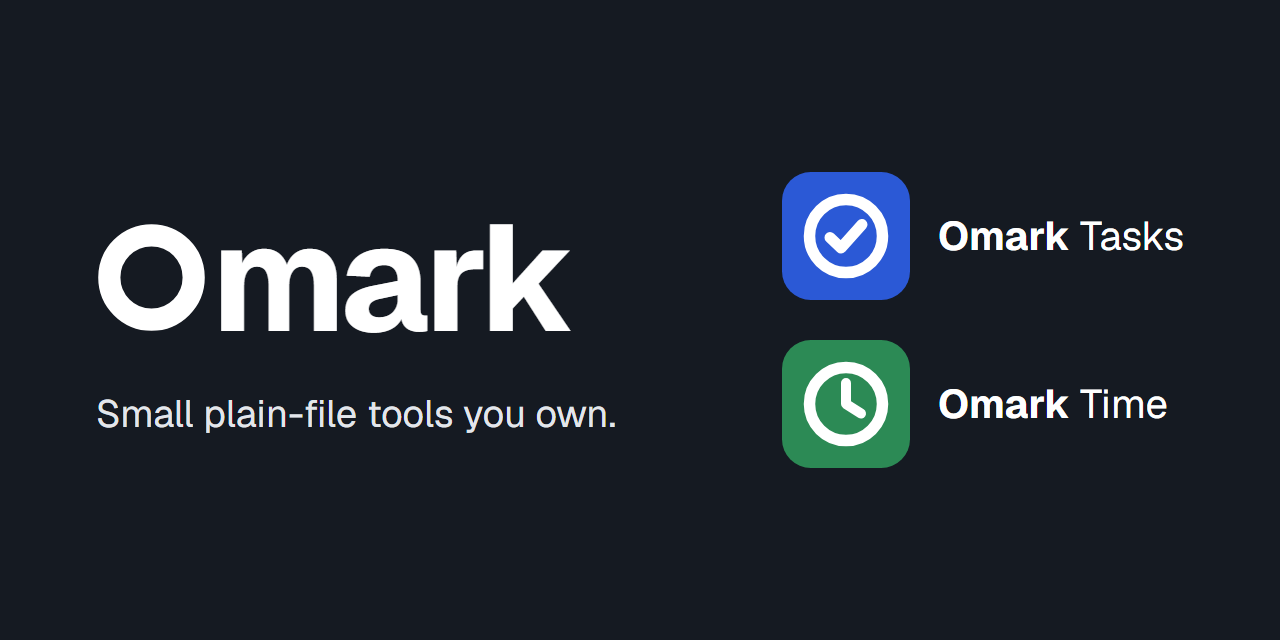
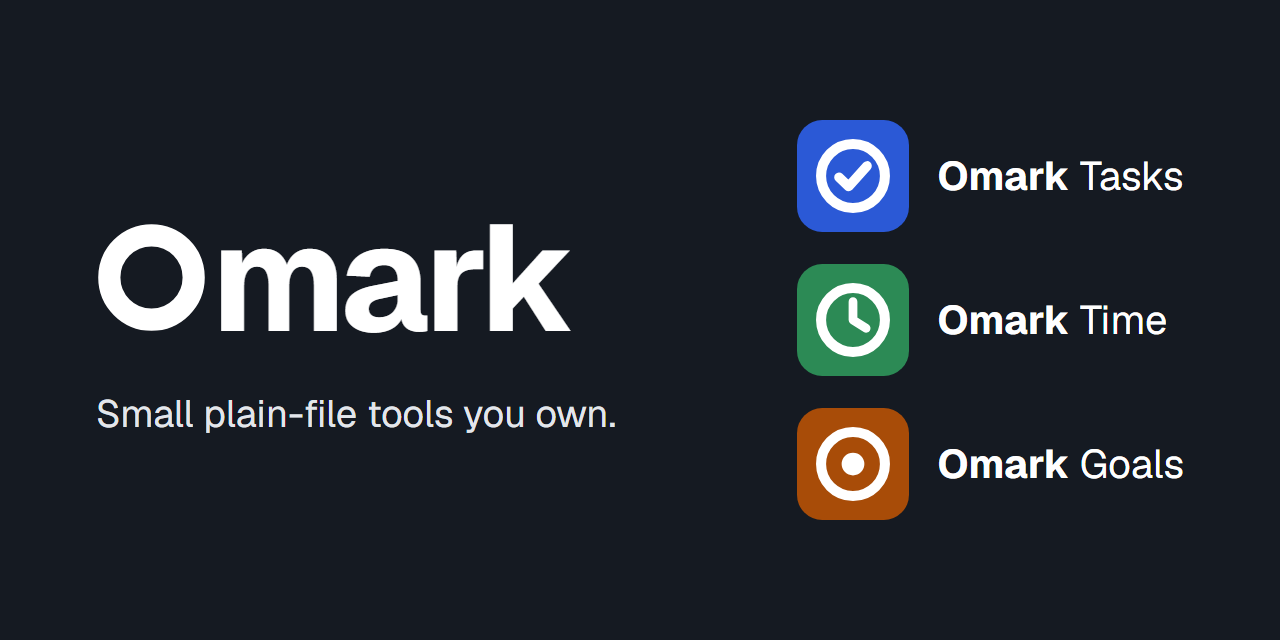
Show Omark Goals in the social preview (#126)

Changed region(s): [[0.5938, 0.1875, 0.9375, 0.8125]]

diff --git a/brand/src/outputs.test.ts b/brand/src/outputs.test.ts
@@ -1,6 +1,7 @@
 import { existsSync, readFileSync } from 'node:fs';
 import { describe, expect, it } from 'vitest';
-import { OUTPUTS, sourceHash } from './outputs.ts';
+import { OUTPUTS, socialHtml, sourceHash } from './outputs.ts';
+import { iconSvg } from './family.ts';
 
 const root = new URL('../../', import.meta.url);
 const read = (p: string) => readFileSync(new URL(p, root));
@@ -47,6 +48,14 @@ describe('outputs', () => {
   it('the landing page logo and app icons are drawn here too', () => {
     const paths = svgs.map((o) => o.path);
     for (const app of ['omark', 'tasks', 'time']) expect(paths).toContain(`apps/site/public/img/icon-${app}.svg`);
+  });
+
+  it('the social preview shows the three apps, each with its icon (#126)', () => {
+    const html = socialHtml();
+    for (const [app, name] of [['tasks', 'Tasks'], ['time', 'Time'], ['goals', 'Goals']] as const) {
+      expect(html).toContain(`<b>Omark</b> ${name}`);
+      expect(html).toContain(Buffer.from(iconSvg(app, { shape: 'rounded' })).toString('base64'));
+    }
   });
 
   it.each(svgs.map((o) => [o.path, o] as const))('every SVG output on disk matches iconSvg: %s', (path, o) => {

diff --git a/brand/src/social.html b/brand/src/social.html
@@ -10,9 +10,9 @@ body { width: 1280px; height: 640px; background: #151A22; color: #FFFFFF; font-f
 .wm { display: flex; align-items: center; font-weight: 700; font-size: 150px; line-height: 1; letter-spacing: -0.03em; white-space: nowrap; }
 .wm svg { height: .74em; width: .74em; margin-right: .03em; }
 .line { margin-top: 36px; font-size: 38px; color: #E3E6EB; }
-.apps { display: grid; gap: 40px; }
+.apps { display: grid; gap: 32px; }
 .app { display: flex; align-items: center; gap: 28px; font-size: 40px; }
-.app img { width: 128px; height: 128px; }
+.app img { width: 112px; height: 112px; }
 .app b { font-weight: 700; }
 </style>
 </head>
@@ -24,6 +24,7 @@ body { width: 1280px; height: 640px; background: #151A22; color: #FFFFFF; font-f
 <div class="apps">
   <div class="app"><img src="{{tasks}}" alt=""><span><b>Omark</b> Tasks</span></div>
   <div class="app"><img src="{{time}}" alt=""><span><b>Omark</b> Time</span></div>
+  <div class="app"><img src="{{goals}}" alt=""><span><b>Omark</b> Goals</span></div>
 </div>
 </body>
 </html>

diff --git a/brand/src/outputs.ts b/brand/src/outputs.ts
@@ -39,7 +39,8 @@ export function socialHtml(): string {
     .replaceAll('{{font400}}', font(400))
     .replaceAll('{{font700}}', font(700))
     .replaceAll('{{tasks}}', t('tasks'))
-    .replaceAll('{{time}}', t('time'));
+    .replaceAll('{{time}}', t('time'))
+    .replaceAll('{{goals}}', t('goals'));
 }
 
 export const OUTPUTS: Output[] = [
